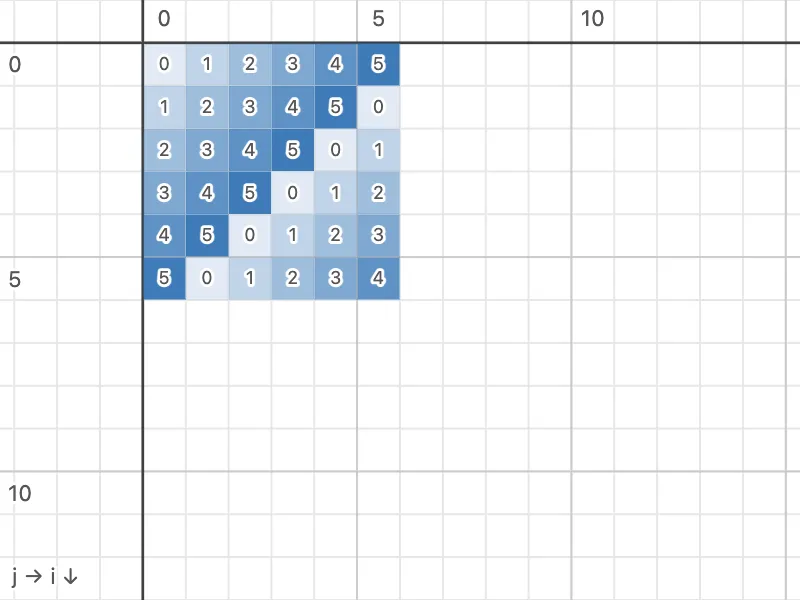
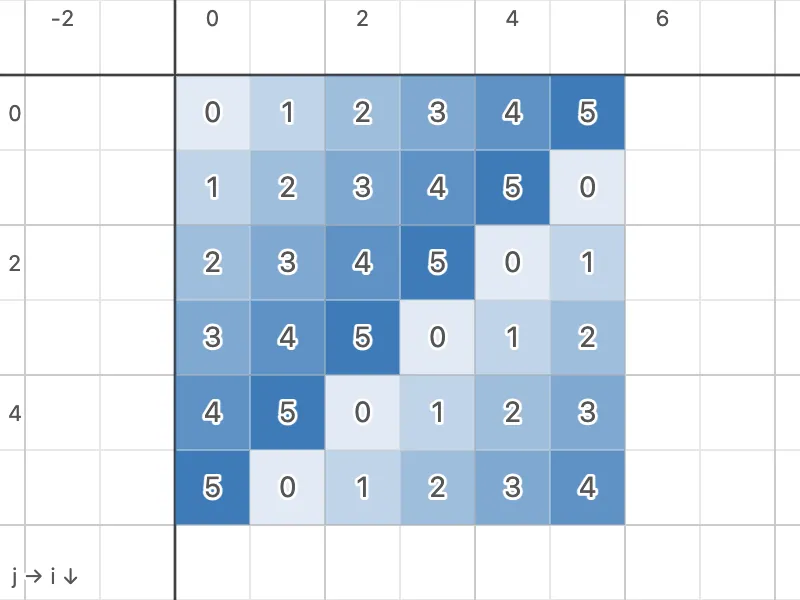
Stack review fixes: guarded binders, whole-call graph rows, lattice framing
- A binder over a guarded list keeps only the members the guard does:
  the draw's copy carries the list's no-value mark (copiedList).
- graph(…) and mark(…) rows are graph rows only when the call is the
  whole row, so `graph(1, 2)*(3)` is no longer an edge 3 → 6.
- A two-axis view(…) naming axes no lattice in its panel uses is a slip for
  x and y, as the one-axis view already was.
- A lattice panel opening with no view row frames its cells with this
  frame's constants, so a table over a slider (Cayley table of ℤ/n, units
  mod n) fits its cells on first load. Their shots are retaken.
- The binder operator is one pattern (DRAW_OP_SRC) for definitions, fits
  and set_graph's row matching, which again reads names like \alpha.

diff --git a/lib/analysis.ts b/lib/analysis.ts
@@ -55,7 +55,7 @@ import { type Classified, classify, classifyRow, plotReadout } from './plot.ts';
 import { scanRegressions, formatFit } from './regression.ts';
 import { type SeqScan, classifySeqRec, scanSequences, sequenceResolver } from './seq.ts';
 import { classifyAutomatonRow, exactCases } from './automaton.ts';
-import { GRAPH_RE, MARK_RE, graphObject } from './graph.ts';
+import { graphObject, wholeCall } from './graph.ts';
 import { buildStateSystem, initialState } from './state.ts';
 import { stripNote } from './statements.ts';
 import { overParams, planarField } from './grid.ts';
@@ -841,10 +841,10 @@ export function analyzePrepared(document: PreparedDocument, context: AnalysisCon
       // graph(from, to, label) reads as the tuple of its arguments: one edge
       // per element of its multiset (lib/graph.ts).
       // (A document's own graph or mark function is that function.)
-      const graphArgs = fnNames.has('graph') ? null : GRAPH_RE.exec(row.text);
+      const graphArgs = fnNames.has('graph') ? null : wholeCall('graph', row.text);
       // mark(v) is v, highlighted in the panel's graphs.
-      const markArg = fnNames.has('mark') ? null : MARK_RE.exec(row.text);
-      const source = graphArgs ? `(${graphArgs[1]})` : markArg ? `(${markArg[1]})` : row.text;
+      const markArg = fnNames.has('mark') ? null : wholeCall('mark', row.text);
+      const source = graphArgs !== null ? `(${graphArgs})` : markArg !== null ? `(${markArg})` : row.text;
       const takenName = takenBinder(row.text);
       if (takenName) throw new Error(takenName);
       const rawParsed = parseExpr(source, fnNames, listNames, valueNames);
@@ -860,15 +860,15 @@ export function analyzePrepared(document: PreparedDocument, context: AnalysisCon
       // with c(m) = {mod(m, 2) = 0: …}. Only a case at x, y or z is refused
       // (it would be a curve's sliver), here on the row that draws it.
       const plane = (e: Expr) => ['x', 'y', 'z'].some(v => freeVars(e).has(v));
-      const exact = !!graphArgs || !plane(rawParsed);
+      const exact = graphArgs !== null || !plane(rawParsed);
       const resolved = resolveRow(
-        graphArgs ? exactCases(rawParsed) : rawParsed,
+        graphArgs !== null ? exactCases(rawParsed) : rawParsed,
         getFn,
         exact ? { ...ropts, exactConditions: true } : ropts,
       );
       const note = perMemberNote(resolved.expr, ropts.isList ?? (() => false));
       if (note) memberNotes.set(row, note);
-      if (exact && !graphArgs) {
+      if (exact && graphArgs === null) {
         // Over numbers a case is the tolerance form the evaluator runs; one
         // whose side is a list stays an equation, for list lowering to decide
         // member by member. (A list inside a reduction is one number.)
@@ -927,11 +927,11 @@ export function analyzePrepared(document: PreparedDocument, context: AnalysisCon
       // Lists then broadcast/reduce away (mirror of web/main.ts).
       const lower = (e: Expr): Expr => lowerObjects(e, defs, ropts);
       row.cls = classifyRow(resolved, lower, constNames, fieldEnv, timeDifferentiator(defs)).cls;
-      if (graphArgs) {
+      if (graphArgs !== null) {
         row.cls = graphObject(row.cls);
         continue;
       }
-      if (markArg) {
+      if (markArg !== null) {
         if (row.cls.object.kind !== 'value')
           throw new Error('mark(v) highlights the vertex v of the graphs in its panel: give it one number.');
         row.mark = true;
@@ -985,20 +985,20 @@ export function analyzePrepared(document: PreparedDocument, context: AnalysisCon
     }
   }
 
-  // A view naming one index axis (a panel sharing the other writes it so)
-  // needs a lattice in its panel with that axis; on the plane it is a slip
-  // for x or y.
+  // A view naming index axes (one, as a panel sharing the other writes it)
+  // needs a lattice in its panel with those axes; on the plane it is a slip
+  // for x and y: `view(X = -1..1, Y = -2..2)`.
   let panelAt = 0;
   const latticeAxes: string[][] = [[]];
-  const oneAxisViews: Array<[(typeof rows)[number], number]> = [];
+  const indexViews: Array<[(typeof rows)[number], number, string[]]> = [];
   for (const row of rows) {
     if (row.view?.kind === 'split') latticeAxes[++panelAt] = [];
     const cpu = row.cpu;
     if (cpu?.type === 'automaton' || cpu?.type === 'lattice') latticeAxes[panelAt].push(...cpu.axes);
-    if (row.view?.kind === 'view' && row.view.axes?.[1] === '') oneAxisViews.push([row, panelAt]);
+    if (row.view?.kind === 'view' && row.view.axes) indexViews.push([row, panelAt, row.view.axes.filter(Boolean)]);
   }
-  for (const [row, at] of oneAxisViews)
-    if (!latticeAxes[at].includes(row.view!.kind === 'view' ? row.view!.axes![0] : '')) {
+  for (const [row, at, axes] of indexViews)
+    if (!axes.every(a => latticeAxes[at].includes(a))) {
       row.error = 'view(…) frames the plane with x and y; an index axis names a lattice in this panel.';
       row.view = undefined;
     }

diff --git a/web/main.ts b/web/main.ts
@@ -64,7 +64,7 @@ import { compileSampler } from '../lib/vm.ts';
 import { fieldScale } from '../lib/volume.ts';
 import { coordinateDragWriter, dragAxes } from '../lib/drag.ts';
 import { type SliderForm, sliderBounds, sliderForm, sliderValue, withBounds, writeSlider } from '../lib/slider.ts';
-import { type Expr, canonicalName, evaluate, freeVars, substVars } from '../lib/expr.ts';
+import { DRAW_OP_SRC, type Expr, canonicalName, evaluate, freeVars, substVars } from '../lib/expr.ts';
 import { gpuFor, shaderBindings } from './render-plan.ts';
 import { typedEscape } from '../lib/escapes.ts';
 import { fieldEvaluator, streamline, traceField } from '../lib/flow.ts';
@@ -632,6 +632,9 @@ function frameLattice(p: Panel, cells: Equation[]) {
   const cpu = cells[0]?.cpu as Parameters<typeof latticeFrame>[0];
   const dpr = window.devicePixelRatio || 1;
   delete p.view.ratio;
+  // This runs from syncCanvasSize, ahead of render's own constEnv, which may
+  // not yet hold the sliders a table reads (on first load it is empty).
+  constEnv = currentConstEnv(graphTime());
   Object.assign(p.view, latticeFrame(cpu, constEnv, w, h, (LATTICE_VALUE_PX + 30) * dpr));
 }
 
@@ -5310,6 +5313,9 @@ function rowStatus(eq: Equation, index: number, animated: ReadonlySet<string>): 
   return row;
 }
 
+/** The name a row defines, or draws (`p ∈ A`, `p \in A`), as matchRows reads it. */
+const ROW_NAME_RE = new RegExp(String.raw`^([^=<>~]+?)\s*(?:=(?!=)|${DRAW_OP_SRC})`);
+
 /**
  * Which existing row each of set_graph's texts continues, so rows keep their
  * color and widgets when the model inserts or drops one: the same text first,
@@ -5325,8 +5331,7 @@ function matchRows(texts: string[]): (Equation | undefined)[] {
     out[i] = eq;
     free.delete(eq);
   };
-  // The name a row defines, or draws (`p ∈ A`, `p \in A`).
-  const lhs = (t: string) => /^([^=<>~∈\\]+?)\s*(?:=(?!=)|∈|\\in\b)/.exec(stripNote(t))?.[1];
+  const lhs = (t: string) => ROW_NAME_RE.exec(stripNote(t))?.[1];
   texts.forEach((t, i) =>
     claim(
       i,

diff --git a/lib/defs.ts b/lib/defs.ts
@@ -37,6 +37,7 @@ import { NonSmoothError, add, diff, div, mul, neg, pow, sub } from './diff.ts';
 import {
   FUNCTIONS,
   GREEK_NAME_CHARS,
+  DRAW_OP_SRC,
   NAME_SRC,
   SHADOWABLE_FNS,
   SUM_MAX_TERMS,
@@ -65,6 +66,7 @@ import {
   NO_LIST_INSIDE,
   SCALAR_REDUCTIONS,
   axesOf,
+  copiedList,
   isDataScatter,
   isSeq,
   isTuple,
@@ -710,7 +712,7 @@ const FN_RE = new RegExp(
 );
 const CONST_RE = new RegExp(String.raw`^\s*(${NAME_SRC})\s*=(?!=)([\s\S]+)$`);
 /** `p ∈ A` (or `p \in A`): a binder, a draw from A. */
-const DRAW_RE = new RegExp(String.raw`^\s*(${NAME_SRC})\s*(?:∈|\\in\b)\s*([\s\S]+)$`);
+const DRAW_RE = new RegExp(String.raw`^\s*(${NAME_SRC})\s*${DRAW_OP_SRC}\s*([\s\S]+)$`);
 const STATE_RE = new RegExp(String.raw`^\s*(${NAME_SRC})'\s*=(?!=)([\s\S]+)$`);
 const INIT_RE = new RegExp(String.raw`^\s*(${NAME_SRC})\s*\(\s*0\s*\)\s*=(?!=)([\s\S]+)$`);
 /**
@@ -2126,7 +2128,7 @@ function drawnFrom(name: string, e: Expr): Expr {
   const positions = own.filter(a => a.ordered);
   if (positions.length === own.length) return e;
   const n = own.filter(a => !a.ordered).reduce((size, a) => size * a.n, 1);
-  return withAxes({ ...e } as Seq, [{ id: `${name}∈`, n }, ...positions]);
+  return copiedList(e, withAxes({ ...e } as Seq, [{ id: `${name}∈`, n }, ...positions]));
 }
 
 /** The name a mapped parameter takes in its body: one no document can spell

diff --git a/lib/graph.ts b/lib/graph.ts
@@ -17,9 +17,27 @@ import { type Expr, evaluate, freeVars } from './expr.ts';
 import type { Classified } from './math-object.ts';
 import { type Prog, compileProg, run } from './vm.ts';
 
-export const GRAPH_RE = /^\s*graph\s*\(([\s\S]*)\)\s*$/;
-/** `mark(v)`: v's vertex highlighted in the graphs of the row's panel. */
-export const MARK_RE = /^\s*mark\s*\(([\s\S]*)\)\s*$/;
+/** The arguments of a row that is one call of `name` as a whole, as
+ *  `graph(…)` and `mark(v)` rows are (v's vertex highlighted in the graphs of
+ *  the row's panel). Null when the call's `)` is not the row's end, as in
+ *  `graph(1, 2) * (3)`. */
+export function wholeCall(name: string, text: string): string | null {
+  const head = new RegExp(String.raw`^\s*${name}\s*\(`).exec(text);
+  if (!head) return null;
+  let depth = 1;
+  let quote: string | null = null;
+  for (let k = head[0].length; k < text.length; k++) {
+    const c = text[k];
+    if (quote) {
+      if (c === quote) quote = null;
+    } else if (c === '"' || c === "'") quote = c;
+    else if (c === '(') depth++;
+    else if (c === ')' && --depth === 0) {
+      return text.slice(k + 1).trim() ? null : text.slice(head[0].length, k);
+    }
+  }
+  return null;
+}
 
 /** The graph a `graph(…)` row denotes, from the classification of its tuple. */
 export function graphObject(cls: Classified): Classified {

diff --git a/lib/regression.ts b/lib/regression.ts
@@ -4,7 +4,7 @@
  */
 import { diff } from './diff.ts';
 import { distFamily, isModelName } from './dist-families.ts';
-import { NAME_SRC, type Expr, canonicalName, evaluate, freeVars } from './expr.ts';
+import { DRAW_OP_SRC, NAME_SRC, type Expr, canonicalName, evaluate, freeVars } from './expr.ts';
 import { VALUE_END } from './statements.ts';
 
 export interface RegressionRow {
@@ -15,7 +15,7 @@ export interface RegressionRow {
 }
 
 /** `name = …`, or a binder `name ∈ …`, at the head of a row (see declaredNames). */
-const DECLARED_RE = new RegExp(String.raw`^\s*(${NAME_SRC})\s*(?:=(?!=)|∈|\\in\b)`);
+const DECLARED_RE = new RegExp(String.raw`^\s*(${NAME_SRC})\s*(?:=(?!=)|${DRAW_OP_SRC})`);
 /** The first name of a ~ row's right side, possibly a distribution's. */
 const HEAD_RE = new RegExp(String.raw`^(${NAME_SRC})\s*(?:\(|$)`);
 

diff --git a/lib/multisets.test.ts b/lib/multisets.test.ts
@@ -127,6 +127,14 @@ describe('§0 binders: p ∈ A draws from A', () => {
     // A built-in a document may shadow is a name like any other.
     expect(last(['D = [1, 2]', 'total ∈ D']).error).toBeUndefined();
   });
+  it('draws only the members a guard keeps', () => {
+    for (const from of ['{A > 2: A}', 'M'])
+      for (const [row, info] of [
+        ['count(p)', '= 2'],
+        ['total(p)', '= 7'],
+      ])
+        expect(last(['A = [1, 2, 3, 4]', 'M = {A > 2: A}', `p ∈ ${from}`, row]).info, `${from} ${row}`).toBe(info);
+  });
   it('draws a scatter with a number beside its columns', () => {
     const tables = () => parseCsv('a\n1\n2\n3\n');
     const rows = analyzeRows(['T = open("t.csv")', 'P ∈ (T.a, 0)', 'P'], { readouts: true, tables }).rows;

diff --git a/lib/view.test.ts b/lib/view.test.ts
@@ -197,6 +197,11 @@ describe('lattice views', () => {
     expect(err(['T[i, n] = i + n', 'view(n = 0..80)'])).toBeUndefined();
     expect(err(['view(z = 1..2)'])).toMatch(/x and y/);
     expect(err(['T[i, n] = i + n', '--- right', 'view(n = 0..80)'])).toMatch(/x and y/);
+    // So are two: a capitalised x and y, or letters no lattice here uses.
+    expect(err(['y = x^2', 'view(X = -1..1, Y = -2..2)'])).toMatch(/x and y/);
+    expect(err(['y = x^2', 'view(a = 0..1, b = 0..2)'])).toMatch(/x and y/);
+    expect(err(['T[i, n] = i + n', 'view(i = 0..1, k = 0..2)'])).toMatch(/x and y/);
+    expect(err(['T[i, n] = i + n', 'view(n = 0..80, i = 0..10)'])).toBeUndefined();
   });
 
   it('swaps a view naming the axes the other way round', () => {

diff --git a/lib/graph.test.ts b/lib/graph.test.ts
@@ -38,6 +38,14 @@ describe('graph rows', () => {
     expect(arrows(graphOf(['graph(1, 2)']))).toEqual(['1>2']);
   });
 
+  it('is a graph row only when the call is the whole row', () => {
+    const graphed = (text: string) => analyzeRows([text]).rows[0].cpu?.type === 'graph';
+    expect(graphed('graph(1, 2)*(3)')).toBe(false);
+    expect(graphed('graph(1, 2) + graph(3, 4)')).toBe(false);
+    expect(graphed('mark(1) + (2)')).toBe(false);
+    expect(arrows(graphOf(['graph(1, (2))']))).toEqual(['1>2']);
+  });
+
   it('a case may test equality in any row not drawn over the plane', () => {
     const value = (rows: string[]) => {
       const a = analyzeRows(rows, { readouts: true });

diff --git a/lib/list.ts b/lib/list.ts
@@ -696,6 +696,12 @@ function decideMembers(items: Expr[], axes: readonly Axis[], ctx: Ctx): Expr {
 /** Named lists that hold a member with no value: reading one brings
  *  dropUndefined into reach (Ctx.none). */
 const holdsNone = new WeakSet<Expr>();
+/** `to`, a copy of the named list `from` (a binder's draw), holding no value
+ *  where `from` does. */
+export function copiedList<T extends Expr>(from: Expr, to: T): T {
+  if (holdsNone.has(from)) holdsNone.add(to);
+  return to;
+}
 
 /** A member a guard decided has no value: one holding [none], through any
  *  arithmetic or coordinate. (Not inside a case: a case that moves with t may
